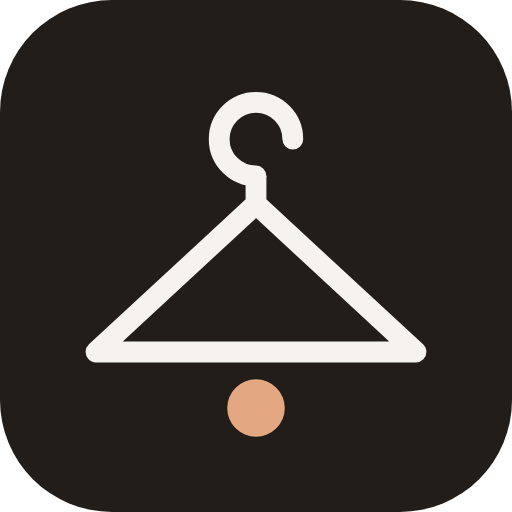
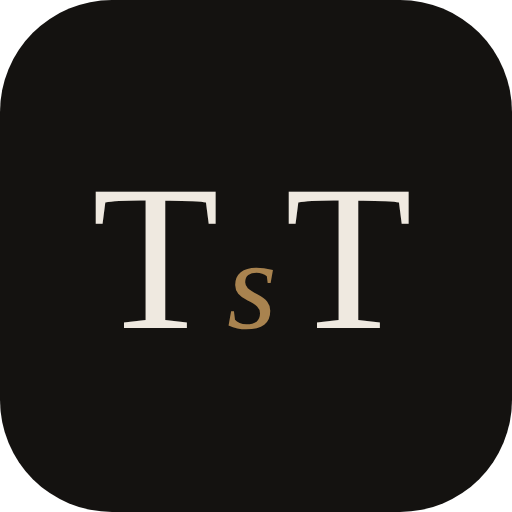
Rename the prototype to Ton sur Ton
New wordmark with an italic "sur", a TsT monogram for the icons,
and the new name in all three languages, the legal pages and the README.

Claude-Session: https://claude.ai/code/session_015pACVzFbx85wZcf93YcC6i

Changed region(s): [[0.1562, 0.1562, 0.8438, 0.875]]

diff --git a/index.html b/index.html
@@ -3,7 +3,7 @@
 <head>
 <meta charset="UTF-8">
 <meta name="viewport" content="width=device-width, initial-scale=1, viewport-fit=cover">
-<title>STYLE AI – Konzept-Prototyp</title>
+<title>Ton sur Ton – Konzept-Prototyp</title>
 <meta name="description" content="Interaktiver Konzept-Prototyp einer Styling-App für Frauen und Männer: Farbtyp, Figur, Stil-Test, Farbprobe mit Foto, Outfits und Trends. Konzept und Design: Raluca Jidvian.">
 <link rel="canonical" href="https://dandelion1111r.github.io/style-ai/">
 <meta name="author" content="Raluca Jidvian">
@@ -14,10 +14,10 @@
 <link rel="manifest" href="manifest.webmanifest">
 <meta name="apple-mobile-web-app-capable" content="yes">
 <meta name="mobile-web-app-capable" content="yes">
-<meta name="apple-mobile-web-app-title" content="STYLE AI">
+<meta name="apple-mobile-web-app-title" content="Ton sur Ton">
 <meta property="og:type" content="website">
-<meta property="og:site_name" content="STYLE AI">
-<meta property="og:title" content="STYLE AI – Kenne deine Farben">
+<meta property="og:site_name" content="Ton sur Ton">
+<meta property="og:title" content="Ton sur Ton – Dein Stil. Präzise.">
 <meta property="og:description" content="Konzept-Prototyp einer Styling-App für Frauen und Männer: Farbtyp, Figur, Stil und Outfits. Konzept und Design: Raluca Jidvian.">
 <meta property="og:url" content="https://dandelion1111r.github.io/style-ai/">
 <meta property="og:image" content="https://dandelion1111r.github.io/style-ai/og-image.png">
@@ -41,7 +41,7 @@
 @font-face{font-family:"DM Mono";font-style:normal;font-weight:400;font-display:swap;src:url("fonts/dm-mono-latin-ext-400-normal.woff2") format("woff2");unicode-range:U+0100-02BA,U+02BD-02C5,U+02C7-02CC,U+02CE-02D7,U+02DD-02FF,U+0304,U+0308,U+0329,U+1D00-1DBF,U+1E00-1E9F,U+1EF2-1EFF,U+2020,U+20A0-20AB,U+20AD-20C0,U+2113,U+2C60-2C7F,U+A720-A7FF}
 @font-face{font-family:"DM Mono";font-style:normal;font-weight:400;font-display:swap;src:url("fonts/dm-mono-latin-400-normal.woff2") format("woff2");unicode-range:U+0000-00FF,U+0131,U+0152-0153,U+02BB-02BC,U+02C6,U+02DA,U+02DC,U+0304,U+0308,U+0329,U+2000-206F,U+20AC,U+2122,U+2191,U+2193,U+2212,U+2215,U+FEFF,U+FFFD}
 
-/* STYLE AI · editorial luxury: ivory paper, ink, one champagne accent.
+/* Ton sur Ton · editorial luxury: ivory paper, ink, one champagne accent.
    Big photography, very little text, hairlines instead of boxes. */
 :root{
   --bg:#F4F0EA;--paper:#FBF9F5;--ink:#141210;--soft:#6F675F;--line:#DCD4C8;--accent:#A9834F;--dark:#141210;--on-dark:#EFE9E0;
@@ -92,6 +92,7 @@ p{margin:0}
 .top nav a,.lang button{font-size:.68rem;font-weight:500;letter-spacing:.26em;text-transform:uppercase;text-decoration:none;color:var(--soft);transition:color .25s}
 .top nav a:hover{color:var(--ink)}
 .logo{font-family:var(--display);font-size:1.45rem;letter-spacing:.42em;text-decoration:none;white-space:nowrap;padding-left:.42em}
+.logo em{font-style:italic;text-transform:none;letter-spacing:.04em;margin:0 .18em 0 -.1em}
 .lang{display:flex;gap:1.1rem;justify-content:flex-end}
 .lang button{background:none;border:0;padding:.3rem 0;border-bottom:1px solid transparent}
 .lang button[aria-pressed="true"]{color:var(--ink);border-color:var(--ink)}
@@ -321,7 +322,7 @@ footer .links{display:flex;gap:1.6rem;flex-wrap:wrap;justify-content:flex-end}
     <a href="#looks" data-t="nav5"></a>
     <a href="#trends" data-t="nav6"></a>
   </nav>
-  <a class="logo" href="#top" id="top">STYLE AI</a>
+  <a class="logo" href="#top" id="top">TON <em>sur</em> TON</a>
   <div class="lang" role="group" aria-label="Sprache / Limba / Language">
     <button data-lang="de" aria-pressed="true">DE</button>
     <button data-lang="ro" aria-pressed="false">RO</button>
@@ -497,7 +498,7 @@ footer .links{display:flex;gap:1.6rem;flex-wrap:wrap;justify-content:flex-end}
 </main>
 
 <footer>
-  <span class="logo">STYLE AI</span>
+  <span class="logo">TON <em>sur</em> TON</span>
   <div class="meta">
     <p data-t="disclaimer"></p>
     <p data-t="credit"></p>
@@ -836,7 +837,7 @@ de:{
   rNeutralNote:"Dein Unterton ist neutral. Auch Farben des Nachbartyps stehen dir. Die Farbprobe entscheidet.",
   rFine:"Eine Orientierung, keine Diagnose. Licht, Make-up und gefärbtes Haar verändern das Ergebnis.",
   rCopy:"Profil kopieren",rRedo:"Neu beginnen",rToDrape:"Zur Farbprobe",rToOutfits:"Meine Looks",rCopied:"Kopiert.",
-  rSummary:(s,sub,sh,st)=>`Mein STYLE AI Profil: ${s} (${sub}), Form ${sh}${st?`, Stil ${st}`:""}.`,
+  rSummary:(s,sub,sh,st)=>`Mein Ton sur Ton Profil: ${s} (${sub}), Form ${sh}${st?`, Stil ${st}`:""}.`,
   dpTitle:"Die <em>Probe</em>",dpLead:"Ein Gesicht. Zwei Farben. Der Unterschied ist sofort sichtbar.",
   dpGood:"Deine Farbe",dpBad:"Nicht deine",dpLeft:"Deine Farben",dpRight:"Zum Vergleich",dpUpload:"Eigenes Foto",dpPrivacy:"Bleibt in deinem Browser. Wird nicht gespeichert.",dpZoom:"Zoom",dpPos:"Ausschnitt",
   ofTitle:"Die <em>Looks</em>",ofShuffle:"Andere Farben",
@@ -850,7 +851,7 @@ de:{
   tr1t:"Dein Foto bleibt bei dir",tr1d:"Nur in deinem Browser. Kein Upload.",tr2t:"Kein KI-Training",tr2d:"Deine Bilder trainieren keine Modelle.",tr3t:"Gewicht optional",tr3d:"Nie angezeigt, nie geteilt.",tr4t:"DSGVO",tr4d:"In der App: Server in der EU, jederzeit löschbar.",
   faqTitle:"Fragen",
   FAQ:[
-   ["Ist STYLE AI kostenlos?","Ja. Test, Palette, Farbprobe, Looks und Trends sind kostenlos und bleiben es."],
+   ["Ist Ton sur Ton kostenlos?","Ja. Test, Palette, Farbprobe, Looks und Trends sind kostenlos und bleiben es."],
    ["Auch für Männer?","Ja. Formen, Looks und Trends gibt es getrennt für Frauen und Männer."],
    ["Wie genau ist das Ergebnis?","Eine gute Orientierung. Am sichersten ist die Farbprobe mit einem Foto bei Tageslicht."],
    ["Brauche ich ein Foto?","Nein. Das Foto brauchst du nur für die Farbprobe."],
@@ -892,7 +893,7 @@ ro:{
   rNeutralNote:"Subtonul tău e neutru. Îți stau bine și culori din tipul vecin. Proba culorilor decide.",
   rFine:"O orientare, nu un diagnostic. Lumina, machiajul și părul vopsit schimbă rezultatul.",
   rCopy:"Copiază profilul",rRedo:"Ia-o de la capăt",rToDrape:"La proba culorilor",rToOutfits:"Ținutele mele",rCopied:"Copiat.",
-  rSummary:(s,sub,sh,st)=>`Profilul meu STYLE AI: ${s} (${sub}), siluetă ${sh}${st?`, stil ${st}`:""}.`,
+  rSummary:(s,sub,sh,st)=>`Profilul meu Ton sur Ton: ${s} (${sub}), siluetă ${sh}${st?`, stil ${st}`:""}.`,
   dpTitle:"<em>Proba</em>",dpLead:"Un chip. Două culori. Diferența se vede imediat.",
   dpGood:"Culoarea ta",dpBad:"Nu e a ta",dpLeft:"Culorile tale",dpRight:"Pentru comparație",dpUpload:"Poza ta",dpPrivacy:"Rămâne în browser. Nu se salvează.",dpZoom:"Zoom",dpPos:"Încadrare",
   ofTitle:"<em>Ținutele</em>",ofShuffle:"Alte culori",
@@ -906,7 +907,7 @@ ro:{
   tr1t:"Poza rămâne la tine",tr1d:"Doar în browserul tău. Nu se încarcă nicăieri.",tr2t:"Fără antrenare AI",tr2d:"Pozele tale nu antrenează niciun model.",tr3t:"Greutatea e opțională",tr3d:"Nu apare și nu se partajează.",tr4t:"GDPR",tr4d:"În aplicație: servere în UE, ștergere oricând.",
   faqTitle:"Întrebări",
   FAQ:[
-   ["Este STYLE AI gratuit?","Da. Testul, paleta, proba culorilor, ținutele și tendințele sunt gratuite și rămân așa."],
+   ["Este Ton sur Ton gratuit?","Da. Testul, paleta, proba culorilor, ținutele și tendințele sunt gratuite și rămân așa."],
    ["Și pentru bărbați?","Da. Siluetele, ținutele și tendințele sunt separate pentru femei și bărbați."],
    ["Cât de exact e rezultatul?","Un bun punct de plecare. Cel mai sigur e proba culorilor cu o poză la lumina zilei."],
    ["Am nevoie de o poză?","Nu. Poza îți trebuie doar pentru proba culorilor."],
@@ -948,7 +949,7 @@ en:{
   rNeutralNote:"Your undertone is neutral. Colours from the neighbouring type suit you too. The drape decides.",
   rFine:"A guide, not a diagnosis. Lighting, make-up and dyed hair change the result.",
   rCopy:"Copy profile",rRedo:"Start again",rToDrape:"Colour drape",rToOutfits:"My looks",rCopied:"Copied.",
-  rSummary:(s,sub,sh,st)=>`My STYLE AI profile: ${s} (${sub}), shape ${sh}${st?`, style ${st}`:""}.`,
+  rSummary:(s,sub,sh,st)=>`My Ton sur Ton profile: ${s} (${sub}), shape ${sh}${st?`, style ${st}`:""}.`,
   dpTitle:"The <em>Drape</em>",dpLead:"One face. Two colours. The difference shows at once.",
   dpGood:"Your colour",dpBad:"Not yours",dpLeft:"Your colours",dpRight:"For comparison",dpUpload:"Your own photo",dpPrivacy:"Stays in your browser. Never saved.",dpZoom:"Zoom",dpPos:"Framing",
   ofTitle:"The <em>Looks</em>",ofShuffle:"Other colours",
@@ -962,7 +963,7 @@ en:{
   tr1t:"Your photo stays with you",tr1d:"Only in your browser. No upload.",tr2t:"No AI training",tr2d:"Your images train no models.",tr3t:"Weight optional",tr3d:"Never shown, never shared.",tr4t:"GDPR",tr4d:"In the app: EU servers, delete any time.",
   faqTitle:"Questions",
   FAQ:[
-   ["Is STYLE AI free?","Yes. Test, palette, drape, looks and trends are free, and stay free."],
+   ["Is Ton sur Ton free?","Yes. Test, palette, drape, looks and trends are free, and stay free."],
    ["For men too?","Yes. Shapes, looks and trends are separate for women and men."],
    ["How accurate is it?","A strong guide. The surest way is the colour drape with a daylight photo."],
    ["Do I need a photo?","No. You only need one for the colour drape."],

diff --git a/impressum.html b/impressum.html
@@ -3,7 +3,7 @@
 <head>
 <meta charset="UTF-8">
 <meta name="viewport" content="width=device-width, initial-scale=1">
-<title>Impressum – STYLE AI</title>
+<title>Impressum – Ton sur Ton</title>
 <meta name="robots" content="noindex">
 <link rel="icon" href="favicon.svg" type="image/svg+xml">
 <link rel="icon" href="favicon-32.png" sizes="32x32" type="image/png">
@@ -37,7 +37,7 @@ a{color:var(--accent);text-underline-offset:3px}
 </head>
 <body>
 <main>
-  <a class="back" href="./">← Zurück zu STYLE AI</a>
+  <a class="back" href="./">← Zurück zu Ton sur Ton</a>
   <h1>Impressum</h1>
   <h2>Angaben gemäß § 5 DDG</h2>
   <p><strong>Raluca Jidvian</strong><br>Bad Wörishofen<br>Deutschland</p>
@@ -46,7 +46,7 @@ a{color:var(--accent);text-underline-offset:3px}
   <h2>Verantwortlich für den Inhalt nach § 18 Abs. 2 MStV</h2>
   <p>Raluca Jidvian, Anschrift wie oben</p>
   <h2>Hinweis</h2>
-  <p>STYLE AI ist ein Konzept-Prototyp und keine veröffentlichte App. Die Empfehlungen sind allgemeine Stilregeln und ersetzen keine persönliche Beratung.</p>
+  <p>Ton sur Ton ist ein Konzept-Prototyp und keine veröffentlichte App. Die Empfehlungen sind allgemeine Stilregeln und ersetzen keine persönliche Beratung.</p>
   <h2>Bildnachweis</h2>
   <p>Fotos: Pexels (Pexels-Lizenz). Fotografinnen und Fotografen: Nadin Sh, Criativa Pix Fotografia, Warona Rasetshwane, Alena Evseenko, Shiny Diamond, Thang Nguyen, Gursher Gill, Leszek Czyzewski, Karolina Ostrzolek, Atlantic Ambience.</p>
 

diff --git a/datenschutz.html b/datenschutz.html
@@ -3,7 +3,7 @@
 <head>
 <meta charset="UTF-8">
 <meta name="viewport" content="width=device-width, initial-scale=1">
-<title>Datenschutz – STYLE AI</title>
+<title>Datenschutz – Ton sur Ton</title>
 <meta name="robots" content="noindex">
 <link rel="icon" href="favicon.svg" type="image/svg+xml">
 <link rel="icon" href="favicon-32.png" sizes="32x32" type="image/png">
@@ -37,7 +37,7 @@ a{color:var(--accent);text-underline-offset:3px}
 </head>
 <body>
 <main>
-  <a class="back" href="./">← Zurück zu STYLE AI</a>
+  <a class="back" href="./">← Zurück zu Ton sur Ton</a>
   <h1>Datenschutz&shy;erklärung</h1>
   <p>Dieser Prototyp kommt ohne Cookies, ohne Tracking und ohne Analyse-Tools aus. Es werden keine Daten an mich oder Dritte übertragen.</p>
   <h2>1. Verantwortliche</h2>

diff --git a/sw.js b/sw.js
@@ -1,6 +1,6 @@
-// STYLE AI service worker: keeps the prototype usable offline.
+// Ton sur Ton service worker: keeps the prototype usable offline.
 // Same-origin files only; nothing is sent anywhere.
-const CACHE = "styleai-v2";
+const CACHE = "tonsurton-v3";
 const CORE = [
   "./", "index.html", "impressum.html", "datenschutz.html",
   "img/hero-woman.jpg", "img/woman-suit.jpg", "img/man-suit.jpg", "img/mature-woman.jpg", "img/skin-closeup.jpg", "img/woman-trench.jpg", "img/man-street.jpg", "img/man-coat.jpg", "img/knit.jpg", "img/plaid.jpg",

diff --git a/README.md b/README.md
@@ -1,10 +1,10 @@
-# STYLE AI
+# TON *sur* TON
 
 **Konzept-Prototyp einer Styling-App für Frauen und Männer: Farbtyp, Figur, Stil-Test, Farbprobe mit Foto, Outfits und Trends, auf Deutsch, Rumänisch und Englisch.**
 
 [Prototyp ansehen →](https://dandelion1111r.github.io/style-ai/)
 
-![STYLE AI: Kenne deine Farben. Verstehe deine Figur. Trag, was zu dir passt.](og-image.png)
+![Ton sur Ton: Kenne deine Farben. Verstehe deine Figur. Trag, was zu dir passt.](og-image.png)
 
 ## Funktionen
 
@@ -33,7 +33,7 @@ Lokal ansehen: `index.html` im Browser öffnen.
 
 ## Hinweise
 
-STYLE AI ist ein Konzept-Prototyp und keine echte App. Es werden keine Daten übertragen. Die Empfehlungen sind allgemeine Stilregeln und ersetzen keine persönliche Beratung.
+Ton sur Ton ist ein Konzept-Prototyp und keine echte App. Es werden keine Daten übertragen. Die Empfehlungen sind allgemeine Stilregeln und ersetzen keine persönliche Beratung.
 
 ## Credits
 
